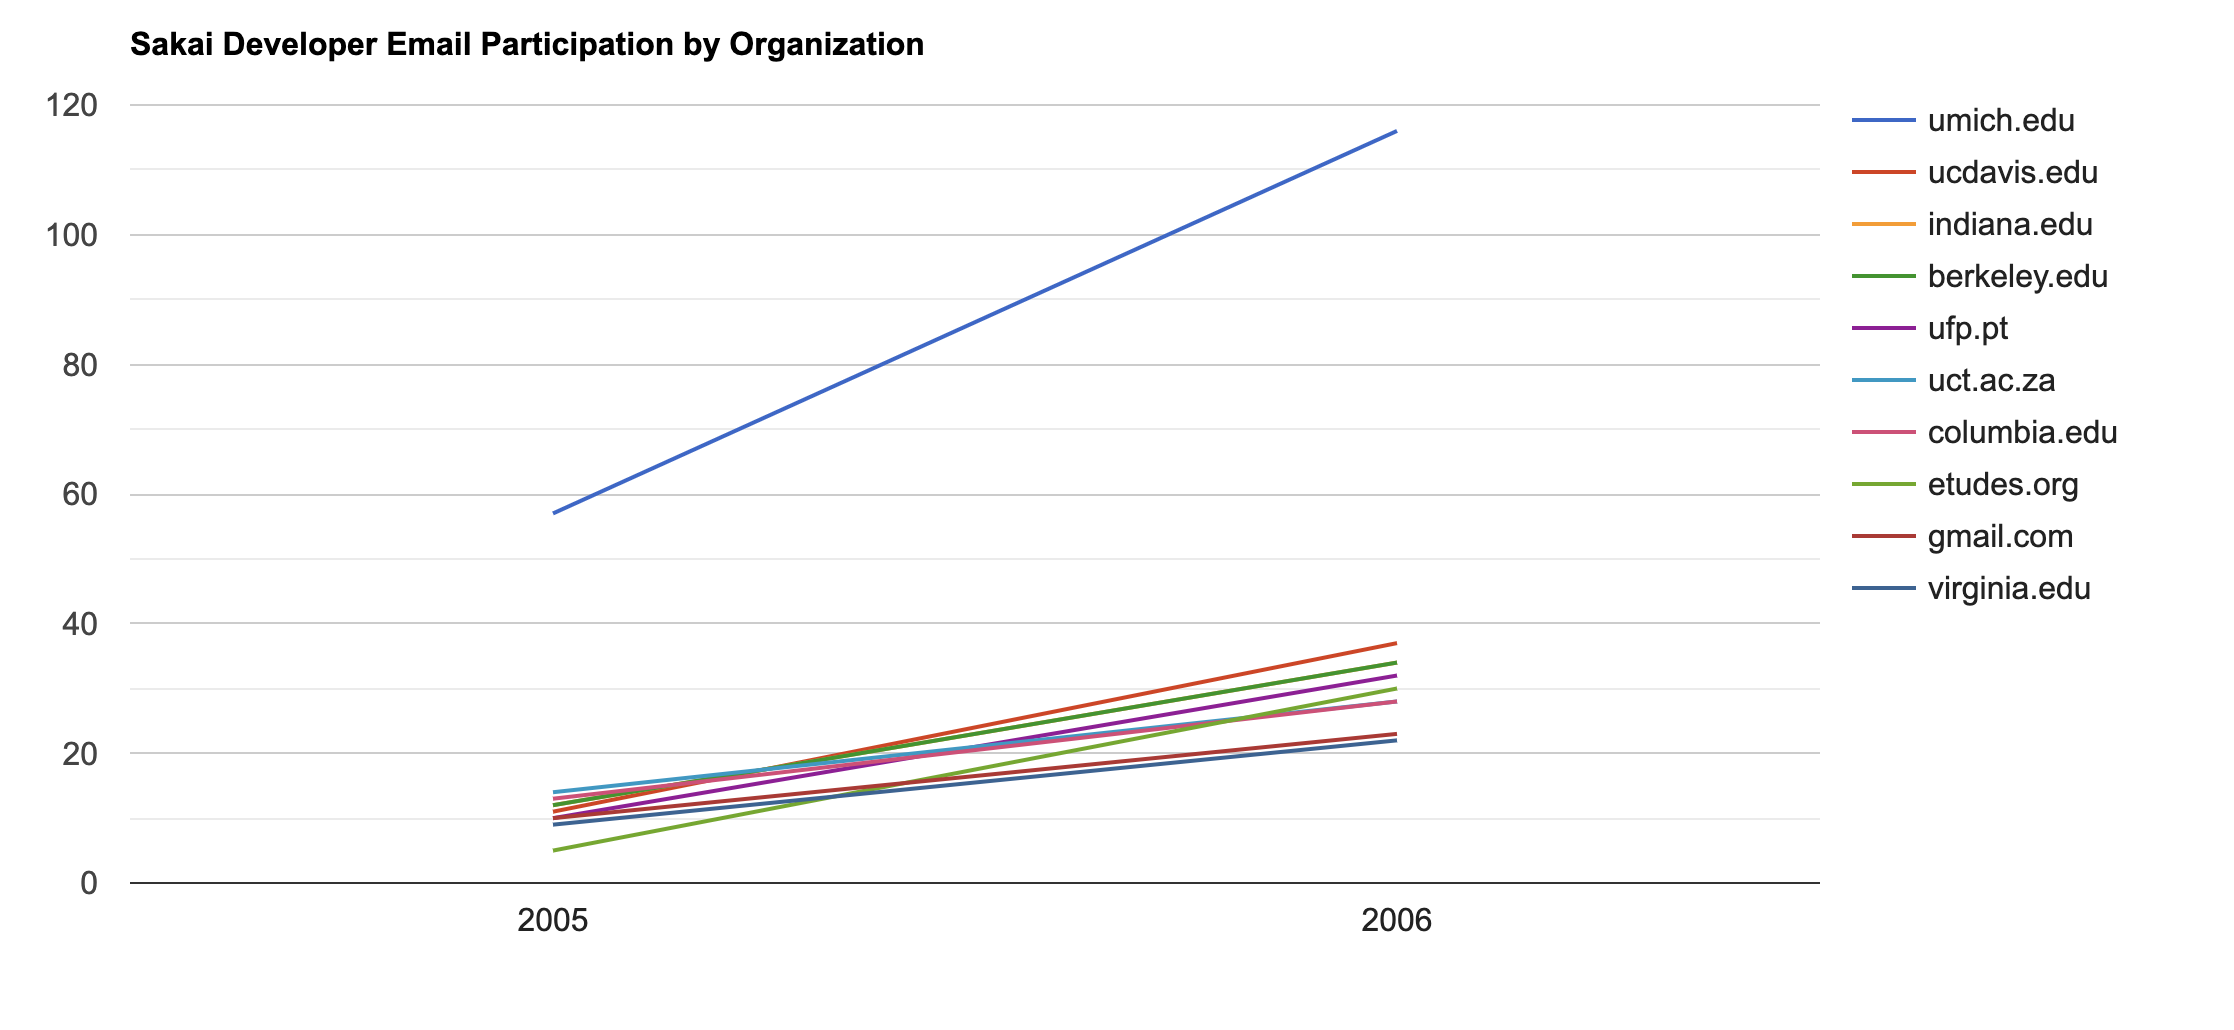
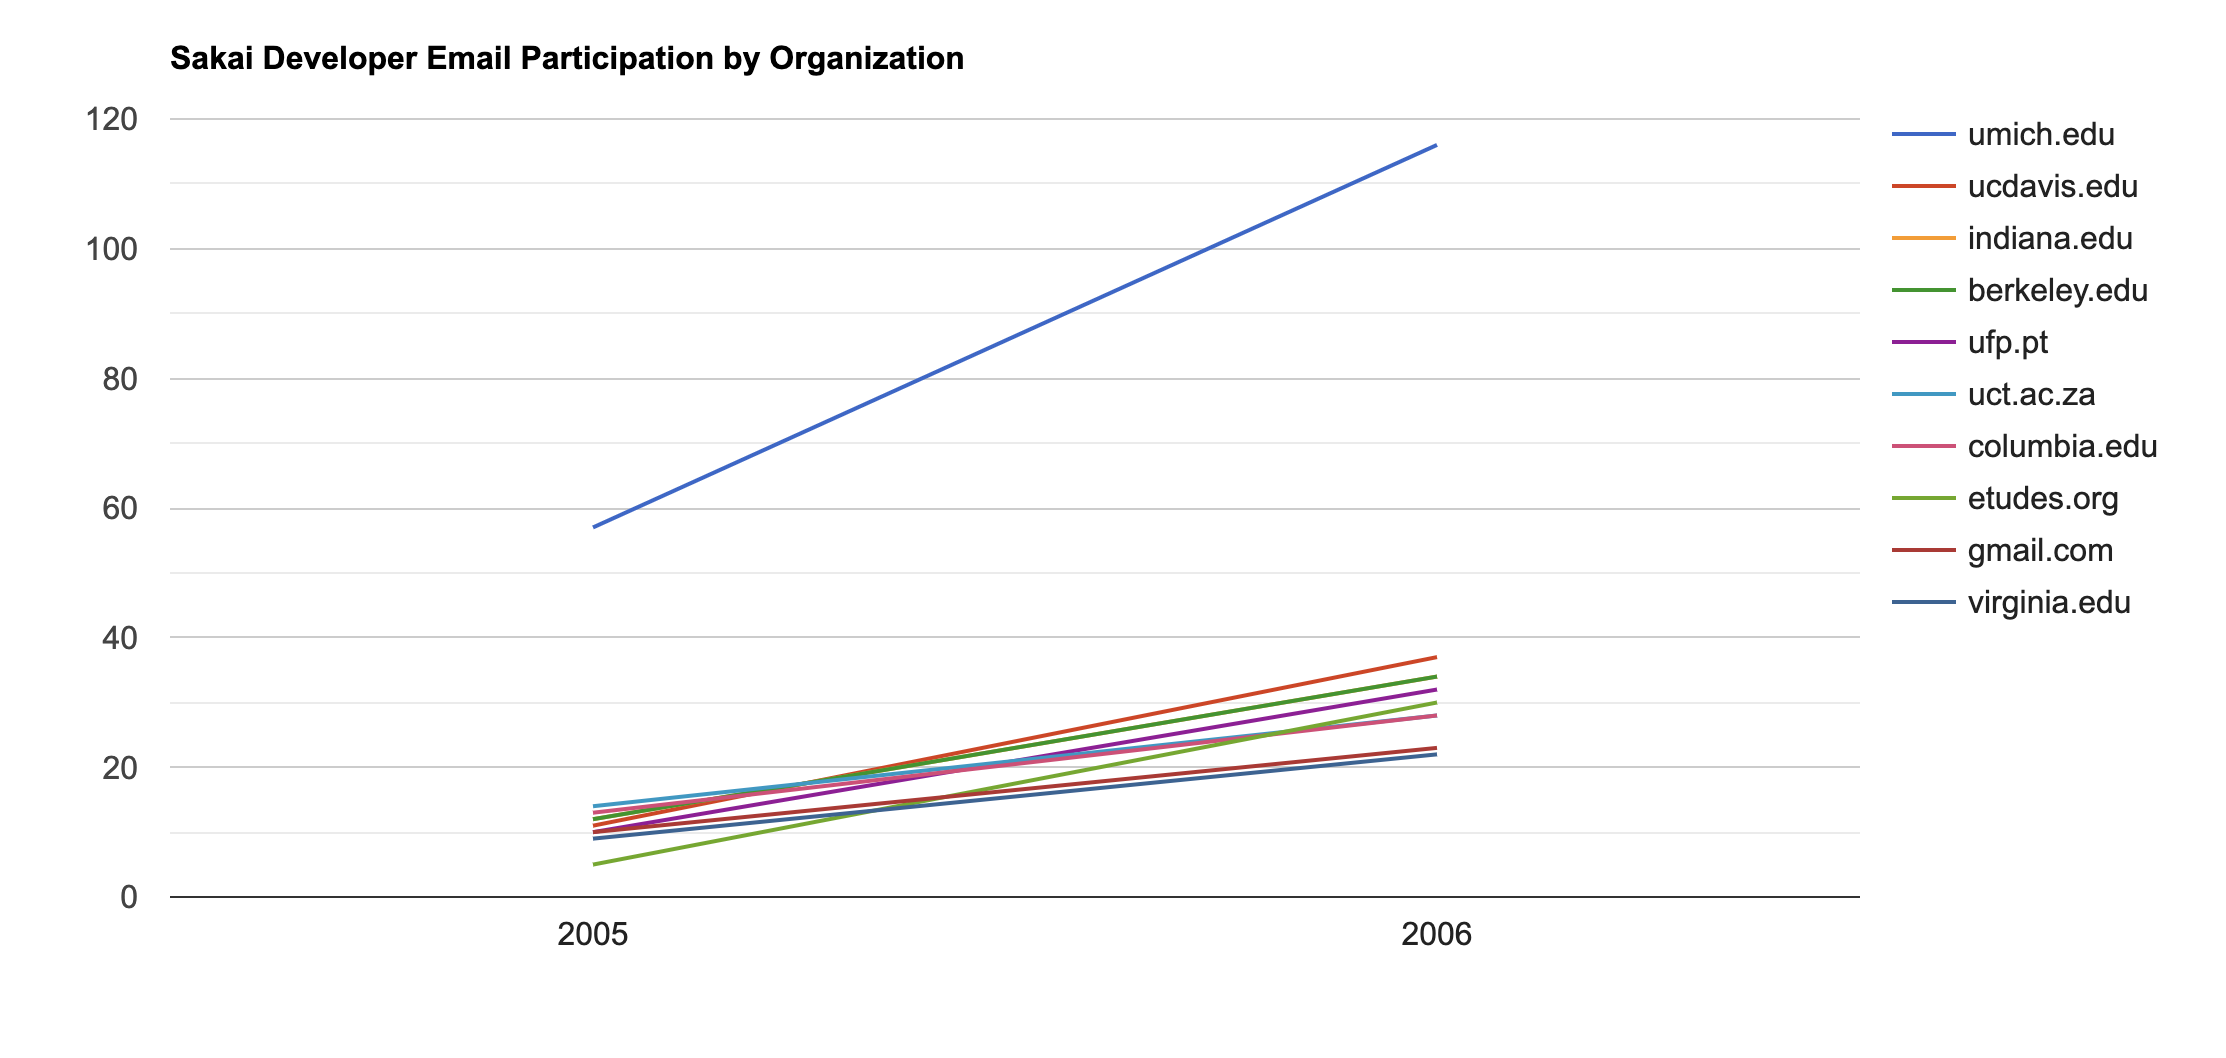
honor class fix

diff --git a/gmane/gword.js b/gmane/gword.js
@@ -1,101 +1,101 @@
 gword = [{text: 'sakai', size: 100},
-{text: 'with', size: 40},
-{text: 'error', size: 37},
-{text: 'problem', size: 31},
-{text: 'changes', size: 31},
-{text: 'mysql', size: 30},
-{text: 'tool', size: 28},
-{text: 'resources', size: 28},
-{text: 'message', size: 28},
-{text: 'content', size: 28},
-{text: 'password', size: 27},
-{text: 'forgotten', size: 27},
-{text: 'feature', size: 27},
-{text: 'profile', size: 27},
-{text: 'webdav', size: 26},
-{text: 'rutgers', size: 26},
-{text: 'accessservlet', size: 26},
-{text: 'aliases', size: 26},
-{text: 'maven', size: 25},
-{text: 'view', size: 25},
+{text: 'with', size: 35},
+{text: 'tool', size: 35},
+{text: 'error', size: 32},
+{text: 'webdav', size: 32},
+{text: 'resources', size: 30},
+{text: 'problems', size: 28},
+{text: 'mysql', size: 28},
+{text: 'changes', size: 26},
+{text: 'maven', size: 26},
 {text: 'site', size: 25},
-{text: 'tools', size: 24},
-{text: 'samigo', size: 24},
-{text: 'center', size: 24},
-{text: 'update', size: 24},
-{text: 'version', size: 24},
-{text: 'desktop', size: 24},
-{text: 'file', size: 23},
-{text: 'portal', size: 23},
-{text: 'visual', size: 23},
-{text: 'basic', size: 23},
-{text: 'course', size: 23},
-{text: 'into', size: 23},
-{text: 'worksite', size: 23},
-{text: 'creating', size: 23},
+{text: 'problem', size: 25},
+{text: 'from', size: 24},
+{text: 'file', size: 24},
+{text: 'working', size: 24},
+{text: 'message', size: 24},
 {text: 'oracle', size: 23},
-{text: 'staleobjectstateexception', size: 23},
-{text: 'updating', size: 23},
-{text: 'collab', size: 22},
-{text: 'status', size: 22},
-{text: 'apis', size: 22},
-{text: 'different', size: 22},
-{text: 'production', size: 22},
-{text: 'branch', size: 22},
-{text: 'extending', size: 22},
-{text: 'javaxsqlbasedatasource', size: 22},
-{text: 'section', size: 21},
-{text: 'sakaiperson', size: 21},
-{text: 'workspace', size: 21},
-{text: 'melete', size: 21},
-{text: 'documentation', size: 21},
-{text: 'memory', size: 21},
-{text: 'cannot', size: 21},
+{text: 'into', size: 23},
+{text: 'tools', size: 23},
+{text: 'content', size: 23},
+{text: 'workspace', size: 23},
+{text: 'melete', size: 23},
+{text: 'course', size: 22},
+{text: 'broken', size: 22},
+{text: 'update', size: 22},
+{text: 'password', size: 22},
+{text: 'forgotten', size: 22},
+{text: 'feature', size: 22},
+{text: 'profile', size: 22},
+{text: 'user', size: 22},
+{text: 'rutgers', size: 22},
+{text: 'accessservlet', size: 22},
+{text: 'aliases', size: 22},
+{text: 'unexpectedly', size: 22},
+{text: 'taken', size: 22},
+{text: 'portalxlogin', size: 22},
+{text: 'samigo', size: 22},
+{text: 'version', size: 22},
+{text: 'eclipse', size: 22},
+{text: 'view', size: 22},
+{text: 'question', size: 22},
 {text: 'email', size: 21},
-{text: 'eclipse', size: 21},
-{text: 'sakaiscript', size: 21},
-{text: 'again', size: 21},
-{text: 'assigning', size: 21},
-{text: 'quota', size: 21},
-{text: 'forums', size: 21},
-{text: 'maintenance', size: 21},
-{text: 'basicnewsservice', size: 21},
-{text: 'patch', size: 21},
+{text: 'upload', size: 21},
+{text: 'gradebook', size: 21},
+{text: 'center', size: 21},
+{text: 'jforum', size: 21},
+{text: 'developers', size: 21},
+{text: 'preferences', size: 21},
 {text: 'files', size: 21},
-{text: 'austin', size: 20},
-{text: 'taxonomy', size: 20},
-{text: 'development', size: 20},
-{text: 'import', size: 20},
-{text: 'system', size: 20},
-{text: 'services', size: 20},
-{text: 'delegates', size: 20},
-{text: 'when', size: 20},
-{text: 'sakais', size: 20},
-{text: 'connection', size: 20},
-{text: 'headsup', size: 20},
-{text: 'html', size: 20},
-{text: 'editors', size: 20},
-{text: 'reordering', size: 20},
-{text: 'from', size: 20},
-{text: 'provider', size: 20},
-{text: 'problems', size: 20},
-{text: 'schedule', size: 20},
-{text: 'high', size: 20},
-{text: 'level', size: 20},
-{text: 'sectionmanager', size: 20},
-{text: 'nosuchbeandefinitionexception', size: 20},
-{text: 'translation', size: 20},
-{text: 'address', size: 20},
-{text: 'username', size: 20},
-{text: 'question', size: 20},
-{text: 'export', size: 20},
-{text: 'dynamic', size: 20},
-{text: 'language', size: 20},
-{text: 'preferences', size: 20},
-{text: 'test', size: 20},
-{text: 'returns', size: 20},
-{text: 'project', size: 20},
-{text: 'list', size: 20},
+{text: 'syllabus', size: 21},
+{text: 'desktop', size: 21},
+{text: 'connection', size: 21},
+{text: 'mail', size: 21},
+{text: 'worksite', size: 20},
+{text: 'apis', size: 20},
+{text: 'creating', size: 20},
+{text: 'portal', size: 20},
+{text: 'visual', size: 20},
+{text: 'basic', size: 20},
+{text: 'different', size: 20},
+{text: 'missing', size: 20},
+{text: 'importing', size: 20},
+{text: 'option', size: 20},
+{text: 'information', size: 20},
+{text: 'memory', size: 20},
+{text: 'related', size: 20},
+{text: 'page', size: 20},
+{text: 'status', size: 20},
+{text: 'staleobjectstateexception', size: 20},
+{text: 'updating', size: 20},
+{text: 'extending', size: 20},
+{text: 'javaxsqlbasedatasource', size: 20},
+{text: 'sakaiiframemyworkspace', size: 20},
+{text: 'collab', size: 20},
+{text: 'code', size: 20},
+{text: 'section', size: 20},
+{text: 'time', size: 20},
+{text: 'production', size: 20},
+{text: 'through', size: 20},
+{text: 'building', size: 20},
+{text: 'under', size: 20},
+{text: 'build', size: 20},
+{text: 'adding', size: 20},
+{text: 'documentation', size: 20},
+{text: 'wiki', size: 20},
+{text: 'users', size: 20},
+{text: 'using', size: 20},
+{text: 'tests', size: 20},
+{text: 'sites', size: 20},
+{text: 'branch', size: 20},
 {text: 'permissions', size: 20},
-{text: 'default', size: 20}
+{text: 'support', size: 20},
+{text: 'size', size: 20},
+{text: 'duplicate', size: 20},
+{text: 'trainingconference', size: 20},
+{text: 'settings', size: 20},
+{text: 'longest', size: 20},
+{text: 'sakaiperson', size: 20},
+{text: 'patch', size: 20},
+{text: 'list', size: 20}
 ];

diff --git a/gmane/gline.js b/gmane/gline.js
@@ -1,4 +1,5 @@
-gline = [ ['Year','umich.edu','ucdavis.edu','indiana.edu','berkeley.edu','ufp.pt','uct.ac.za','columbia.edu','etudes.org','gmail.com','virginia.edu'],
-['2005',57,11,12,12,10,14,13,5,10,9],
-['2006',116,37,34,34,32,28,28,30,23,22]
+gline = [ ['month','umich.edu','ucdavis.edu','indiana.edu','berkeley.edu','ufp.pt','uct.ac.za','columbia.edu','etudes.org','gmail.com','virginia.edu'],
+['2005-12',57,11,12,12,10,14,13,5,10,9],
+['2006-01',114,37,32,33,32,27,28,29,23,21],
+['2006-02',2,0,2,1,0,1,0,1,0,1]
 ];

diff --git a/gmane/gline.py b/gmane/gline.py
@@ -32,7 +32,7 @@ print("Top 10 Organizations")
 print(orgs)
 
 counts = dict()
-years = list()
+months = list()
 # cur.execute('SELECT id, guid,sender_id,subject_id,sent_at FROM Messages')
 for (message_id, message) in list(messages.items()):
     sender = message[1]
@@ -40,25 +40,25 @@ for (message_id, message) in list(messages.items()):
     if len(pieces) != 2 : continue
     dns = pieces[1]
     if dns not in orgs : continue
-    year = message[3][:4]
-    if year not in years : years.append(year)
-    key = (year, dns)
+    month = message[3][:7]
+    if month not in months : months.append(month)
+    key = (month, dns)
     counts[key] = counts.get(key,0) + 1
 
-years.sort()
+months.sort()
 # print counts
 # print months
 
 fhand = open('gline.js','w')
-fhand.write("gline = [ ['Year'")
+fhand.write("gline = [ ['month'")
 for org in orgs:
     fhand.write(",'"+org+"'")
 fhand.write("]")
 
-for year in years:
-    fhand.write(",\n['"+year+"'")
+for month in months:
+    fhand.write(",\n['"+month+"'")
     for org in orgs:
-        key = (year, org)
+        key = (month, org)
         val = counts.get(key,0)
         fhand.write(","+str(val))
     fhand.write("]");
